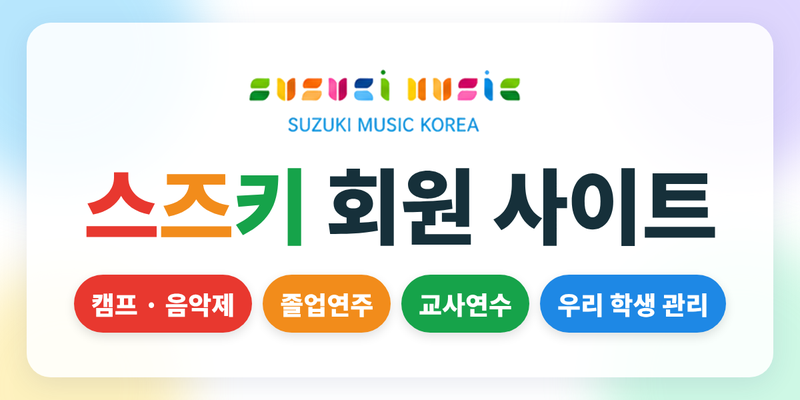
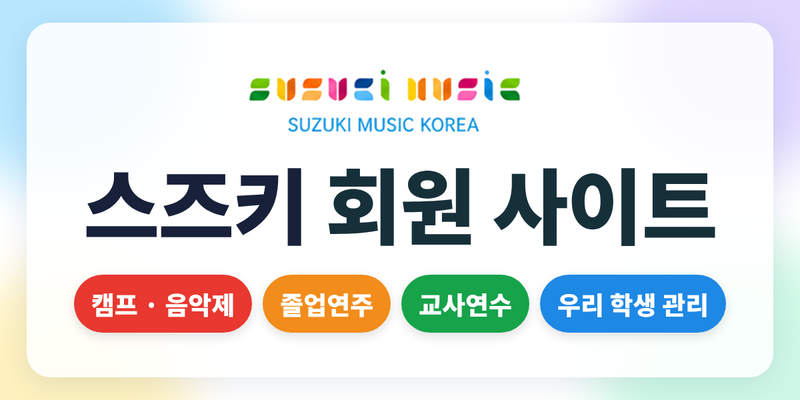
회원 사이트 공유 그림: 「스즈키」 글씨 검은색 (v=5)
Claude-Session: https://claude.ai/code/session_019BVA4J87hJCKdzCvUo2y86

Changed region(s): [[0.0938, 0.42, 0.375, 0.63]]

diff --git a/member/index.html b/member/index.html
@@ -18,7 +18,7 @@
 <meta property="og:title" content="한국스즈키음악협회 회원관리 사이트">
 <meta property="og:description" content="회원관리부터 캠프·졸업연주·교사연수 신청까지 한 번에 할 수 있어요.">
 <meta property="og:url" content="https://app.suzukimusickorea.org/member/">
-<meta property="og:image" content="https://app.suzukimusickorea.org/member/og.png?v=4">
+<meta property="og:image" content="https://app.suzukimusickorea.org/member/og.png?v=5">
 <meta property="og:image:width" content="800">
 <meta property="og:image:height" content="400">
 <meta name="twitter:card" content="summary_large_image">
